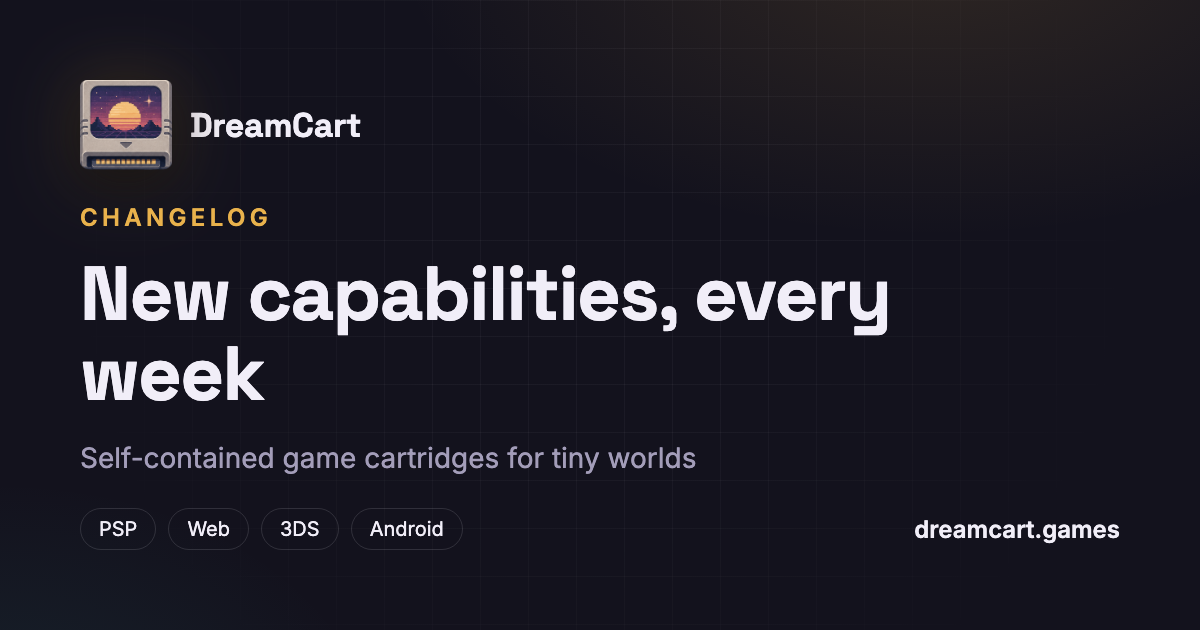
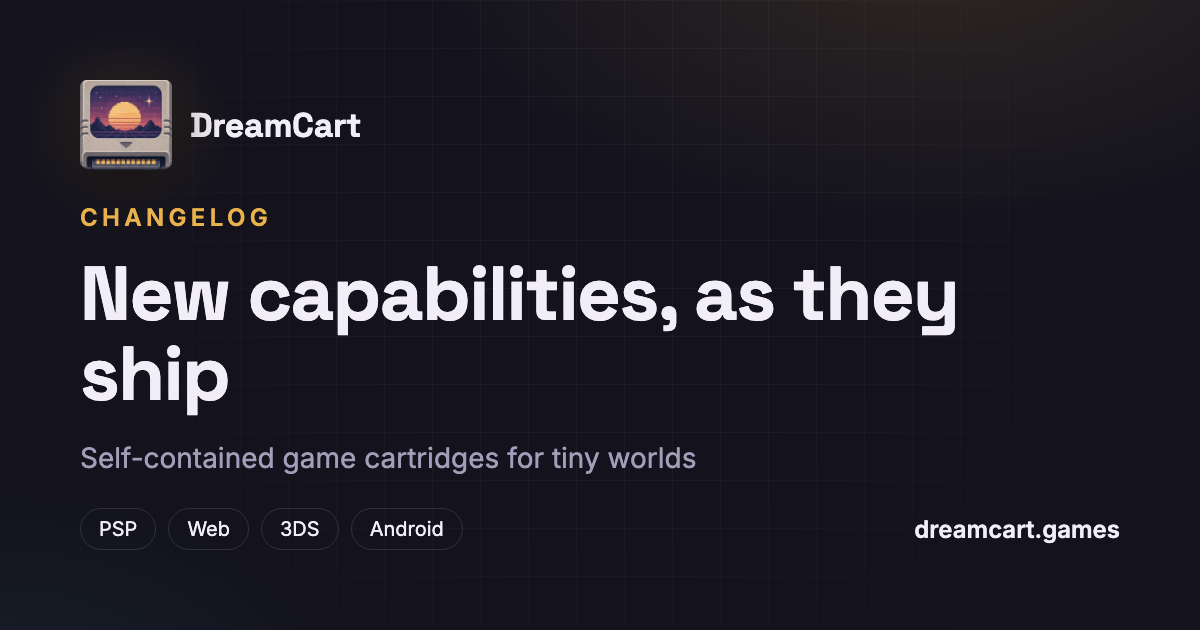
docs(web): reframe changelog as dated entries, not fake "weeks"
The three sections were 2 days apart but labelled "Week of …" (and all fell inside
one real calendar week). Relabel them as dated entries (2026-06-19/17/15), reword
the intro to "development push (every couple of days)", and fix the in-body "week"
phrasing. Update the matching non-weekly copy: changelog meta description, OG card
title ("as they ship"), README Live row ("by date"), and rename the internal
ChangelogPageData.weeks → entries.

Changed region(s): [[0.5858, 0.4222, 0.8017, 0.5429], [0.0617, 0.5429, 0.2158, 0.6635]]

diff --git a/web/site-src/pages/ChangelogPage.tsx b/web/site-src/pages/ChangelogPage.tsx
@@ -1,5 +1,5 @@
 /**
- * ChangelogPage — the changelog shell: a version/week jump list + the
+ * ChangelogPage — the changelog shell: a dated-entry jump list + the
  * build-rendered markdown HTML body.
  *
  * CONTENT AGENT: do NOT edit this file to add entries — edit
@@ -10,8 +10,8 @@ import type { DocHeading } from "./DocsPage";
 
 export interface ChangelogPageData {
   bodyHtml: string;
-  /** h2 week/version headings for the jump list. */
-  weeks: DocHeading[];
+  /** h2 dated-entry headings for the jump list. */
+  entries: DocHeading[];
 }
 
 export function ChangelogPage({ data }: { data: ChangelogPageData }) {
@@ -21,9 +21,9 @@ export function ChangelogPage({ data }: { data: ChangelogPageData }) {
         <aside className="docs-sidebar" aria-label="Versions">
           <p className="docs-sb-title">Versions</p>
           <ul>
-            {data.weeks.map((w) => (
-              <li key={w.slug}>
-                <a href={`#${w.slug}`}>{w.text}</a>
+            {data.entries.map((e) => (
+              <li key={e.slug}>
+                <a href={`#${e.slug}`}>{e.text}</a>
               </li>
             ))}
           </ul>

diff --git a/web/deploy-build.ts b/web/deploy-build.ts
@@ -266,12 +266,12 @@ export async function buildSite(): Promise<void> {
     const file = join(contentDir, "changelog.md");
     const md = (await Bun.file(file).exists()) ? await Bun.file(file).text() : "# Changelog\n";
     const { html, headings } = renderMarkdown(md);
-    const data: ChangelogPageData = { bodyHtml: html, weeks: headings.filter((h) => h.depth === 2) };
+    const data: ChangelogPageData = { bodyHtml: html, entries: headings.filter((h) => h.depth === 2) };
     await writeHtml({
       dir: "changelog",
       title: "Changelog — DreamCart",
       ogTitle: "DreamCart Changelog",
-      description: "Weekly summaries of new DreamCart capabilities — the isomorphic game runtime for PSP, Web, 3DS and Android.",
+      description: "Dated summaries of new DreamCart capabilities — the isomorphic game runtime for PSP, Web, 3DS and Android.",
       cssHref: CSS,
       bundleHref: await buildEntry("changelog.tsx", "changelog"),
       ogImage: "/og/changelog.png",

diff --git a/web/og.ts b/web/og.ts
@@ -33,7 +33,7 @@ const CARDS = [
   { name: "home", eyebrow: "Isomorphic game runtime", title: "DreamCart" },
   { name: "play", eyebrow: "Playground", title: "Run a cartridge in your browser" },
   { name: "docs", eyebrow: "Documentation", title: "Architecture &amp; lib API" },
-  { name: "changelog", eyebrow: "Changelog", title: "New capabilities, every week" },
+  { name: "changelog", eyebrow: "Changelog", title: "New capabilities, as they ship" },
 ];
 
 const card = (eyebrow: string, title: string) => /* html */ `<!doctype html><html><head><meta charset="utf-8">

diff --git a/web/content/changelog.md b/web/content/changelog.md
@@ -1,12 +1,13 @@
 # Changelog
 
-Weekly summaries of new capabilities shipping in DreamCart — the isomorphic game
+Dated summaries of new capabilities shipping in DreamCart — the isomorphic game
 runtime where one `.js` cartridge runs unchanged on PSP, Web, 3DS, and Android.
-Newest first. PR numbers link to the [GitHub repository](https://github.com/doodlewind/dreamcart).
+Each entry is a development push (every couple of days), newest first. PR numbers
+link to the [GitHub repository](https://github.com/doodlewind/dreamcart).
 
-## Week of 2026-06-19 — Engine subsystems and world import
+## 2026-06-19 — Engine subsystems and world import
 
-A big week: the shared gameplay layer grew up (a reusable character controller, an
+A big push: the shared gameplay layer grew up (a reusable character controller, an
 ActionMap, and fully data-driven scenes), the asset pipeline moved off base64 to a
 real binary container, and the runtime learned to import real GoldSrc/Half-Life BSP
 levels into walkable scenes.
@@ -44,7 +45,7 @@ levels into walkable scenes.
   plus a normalized PSP SDK and rust-psp submodule cleanup ([#9](https://github.com/doodlewind/dreamcart/pull/9),
   [#10](https://github.com/doodlewind/dreamcart/pull/10), [#11](https://github.com/doodlewind/dreamcart/pull/11)).
 
-## Week of 2026-06-17 — Advanced 3D and the PSP performance unlock
+## 2026-06-17 — Advanced 3D and the PSP performance unlock
 
 The runtime went from drawing flat triangles to a full hardware-accelerated 3D stack —
 textures, lighting, and glTF skinning — and then made it actually fast on a PSP by
@@ -84,9 +85,9 @@ moving the per-frame hot path out of interpreted JS and into native Rust.
 - **PSP performance field guide** documenting the allocator, native offload, and
   profiling workflow.
 
-## Week of 2026-06-15 — Isomorphic 3D and dual-screen Android
+## 2026-06-15 — Isomorphic 3D and dual-screen Android
 
-The foundation week: the project became DreamCart, gained a shared 3D layer that runs
+The foundation push: the project became DreamCart, gained a shared 3D layer that runs
 the same game logic across every platform, and added a dual-screen Android handheld.
 
 ### 3D

diff --git a/README.md b/README.md
@@ -26,7 +26,7 @@ in shared JS and a native engine per platform (see
 |---|---|
 | 🎮 **Playground** | <https://dreamcart.games/play/> — run any game in a themeable handheld console, in your browser |
 | 📖 **Docs** | <https://dreamcart.games/docs/> — architecture + lib API reference |
-| 🗓 **Changelog** | <https://dreamcart.games/changelog/> — weekly capability summaries |
+| 🗓 **Changelog** | <https://dreamcart.games/changelog/> — capability summaries by date |
 | 🏠 **Home** | <https://dreamcart.games/> |
 
 | Platform | Host | Graphics (2D / 3D) | Status |
